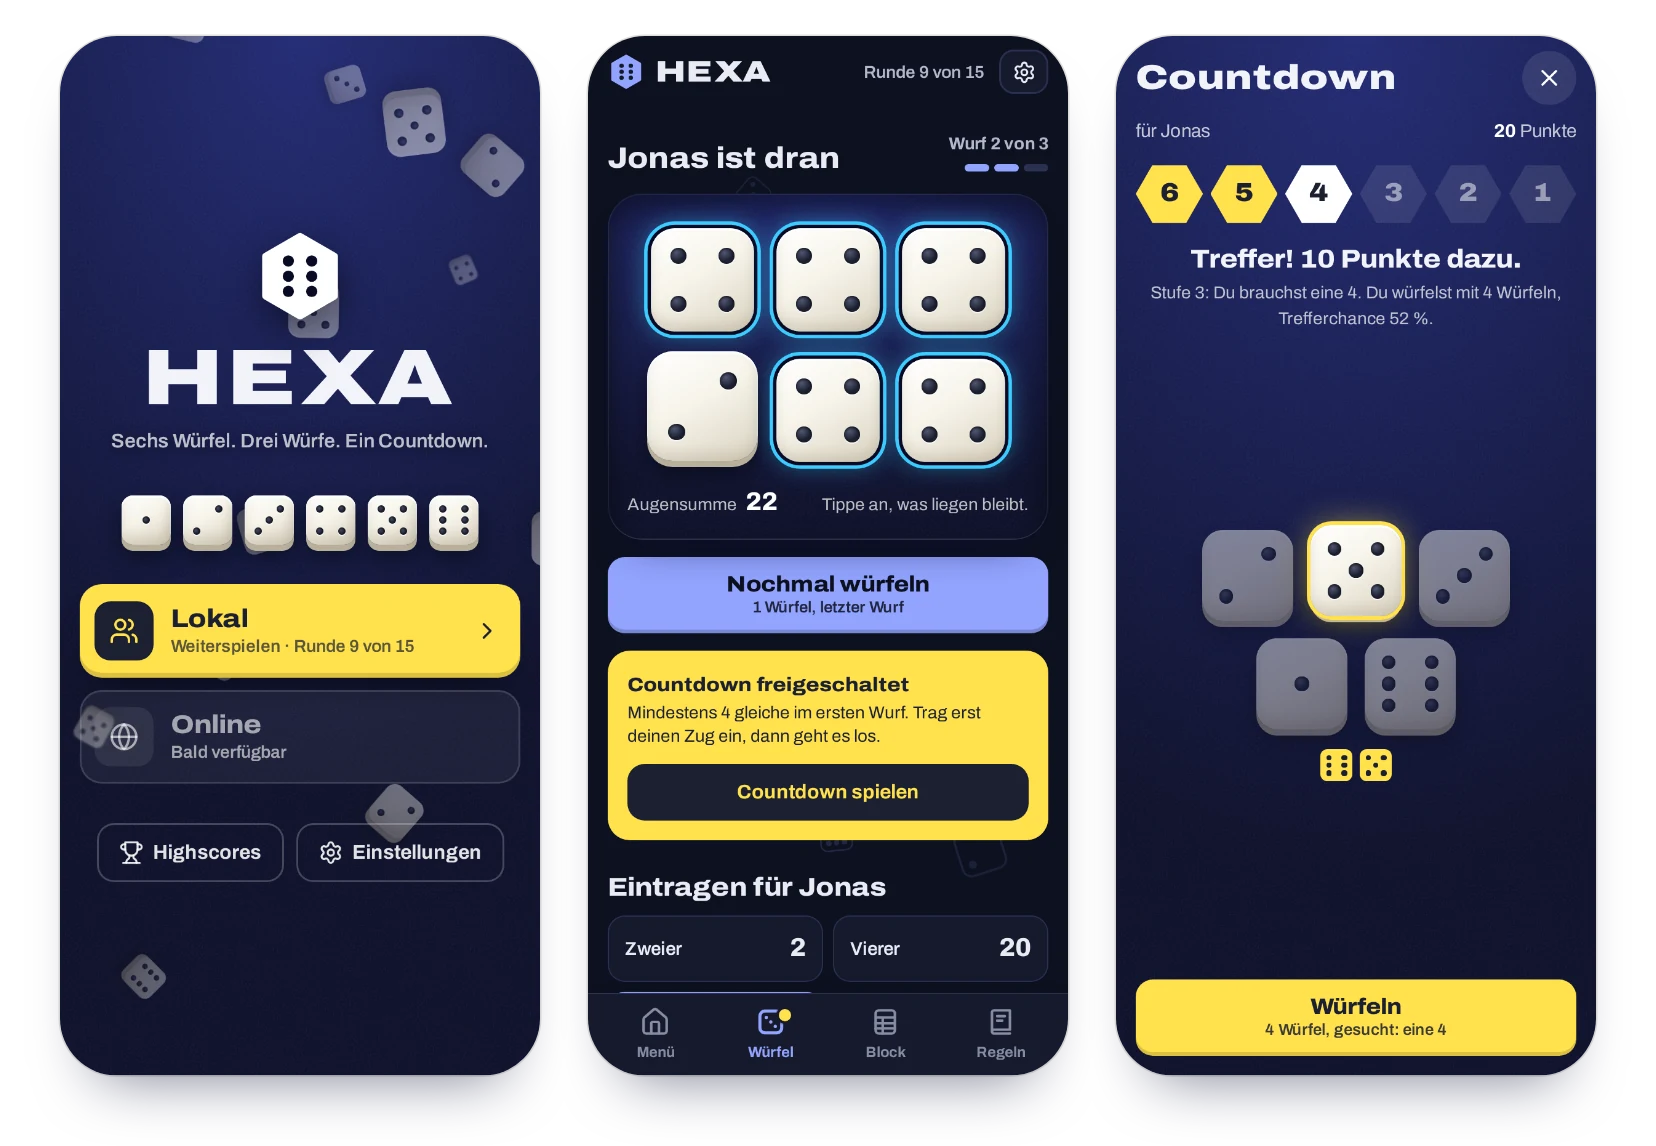
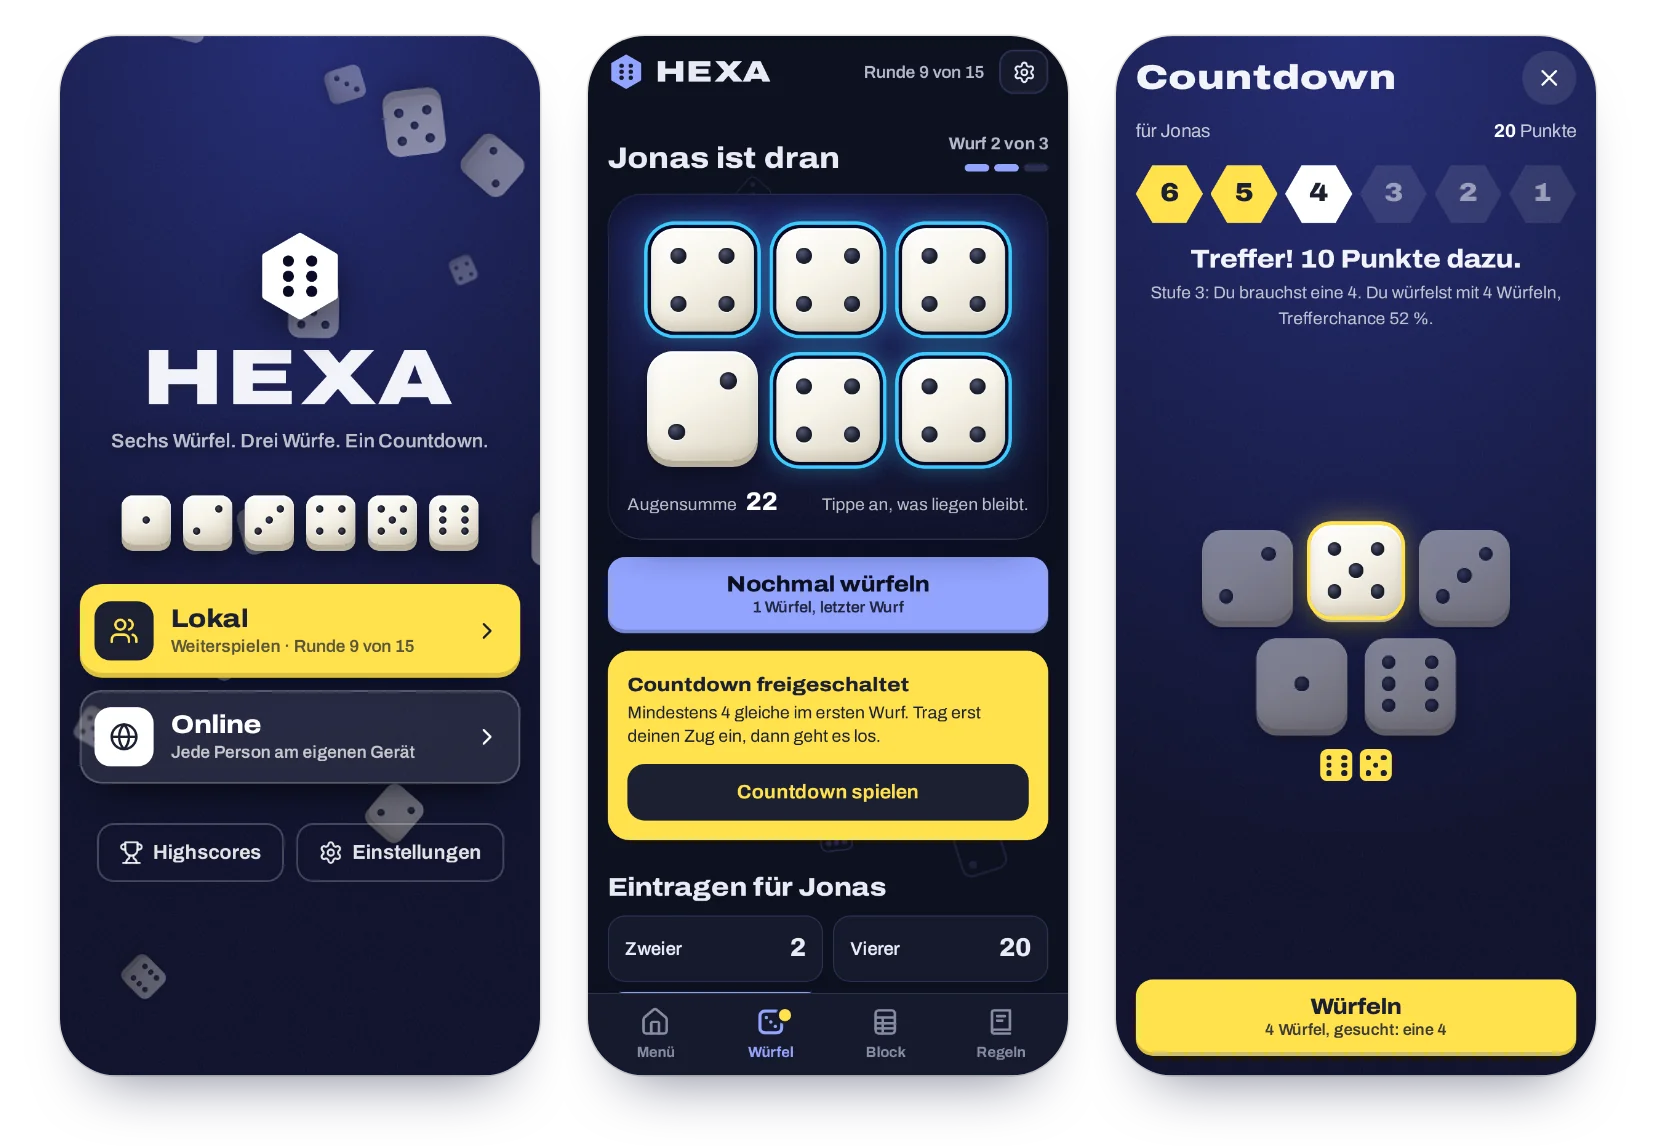
Hauptmenü im README und Vorschaubild aktuell, kürzerer Online-Untertitel
- Titelbild im README und Vorschaubild für geteilte Links zeigen das
  aktuelle Hauptmenü statt „Online – Bald verfügbar“ (gleiche fallende
  Würfel wie vorher, Würfel- und Countdown-Bild unverändert)
- Untertitel unter „Online“: „Jede Person am eigenen Gerät“ (englisch
  „Everyone on their own device“), passt in eine Zeile wie bei „Lokal“
- Untertitel im Hauptmenü brechen ausgewogen um, falls es doch zu eng wird

Claude-Session: https://claude.ai/code/session_01EyxE22HJnkbi7Dpw29RZbE

Changed region(s): [[0.0308, 0.6108, 0.2464, 0.7024], [0.7083, 0.9162, 0.9239, 0.9468]]

diff --git a/css/hexa.css b/css/hexa.css
@@ -928,7 +928,7 @@ html:not(.ready) .start-in > :not(noscript) { visibility: hidden; }
 .mode-ic { display: grid; place-items: center; width: 48px; height: 48px; border-radius: 13px; }
 .mode-ic svg { width: 24px; height: 24px; }
 .mode-t { display: block; font-size: 21px; font-weight: 800; font-stretch: 112%; line-height: 1.15; }
-.mode-s { display: block; margin-top: 2px; font-size: 14px; font-weight: 600; line-height: 1.3; }
+.mode-s { display: block; margin-top: 2px; font-size: 14px; font-weight: 600; line-height: 1.3; text-wrap: balance; }
 .mode-go { width: 22px; height: 22px; }
 .mode-local { background: var(--marker); color: #1C2030; box-shadow: inset 0 -4px 0 rgba(0, 0, 0, .14), 0 18px 30px -18px rgba(0, 0, 0, .8); }
 .mode-local .mode-ic { background: #1C2030; color: var(--marker); }

diff --git a/lang/de.js b/lang/de.js
@@ -344,7 +344,7 @@
     },
 
     online: {
-      startSub: 'Mit Code, jede Person am eigenen Gerät',
+      startSub: 'Jede Person am eigenen Gerät',
       startResume: 'Weiterspielen · Lobby {code}',
       title: 'Online spielen',
       lead: 'Jede Person spielt am eigenen Gerät. Eine erstellt die Lobby, die anderen treten mit dem Code bei. Allein geht auch.',

diff --git a/lang/en.js b/lang/en.js
@@ -342,7 +342,7 @@
     },
 
     online: {
-      startSub: 'With a code, everyone on their own device',
+      startSub: 'Everyone on their own device',
       startResume: 'Resume · Lobby {code}',
       title: 'Play online',
       lead: 'Everyone plays on their own device. One person creates the lobby, the others join with the code. You can also play alone.',

diff --git a/CHANGELOG.md b/CHANGELOG.md
@@ -3,6 +3,13 @@
 Alle wichtigen Änderungen an HEXA stehen hier.
 Das Format folgt [Keep a Changelog](https://keepachangelog.com/de/1.1.0/), die Versionen folgen [Semantic Versioning](https://semver.org/lang/de/).
 
+## [Unreleased]
+
+### Geändert
+
+- **Hauptmenü:** Unter „Online“ steht jetzt kurz „Jede Person am eigenen Gerät“, passend zu „Lokal“. Der Text passt so auch auf schmalen Handys in eine Zeile.
+- **README und Vorschaubild:** zeigen das aktuelle Hauptmenü, ohne „Bald verfügbar“ bei Online.
+
 ## [1.8.0] – 2026-09-28
 
 Online spielen, jede Person am eigenen Gerät.
